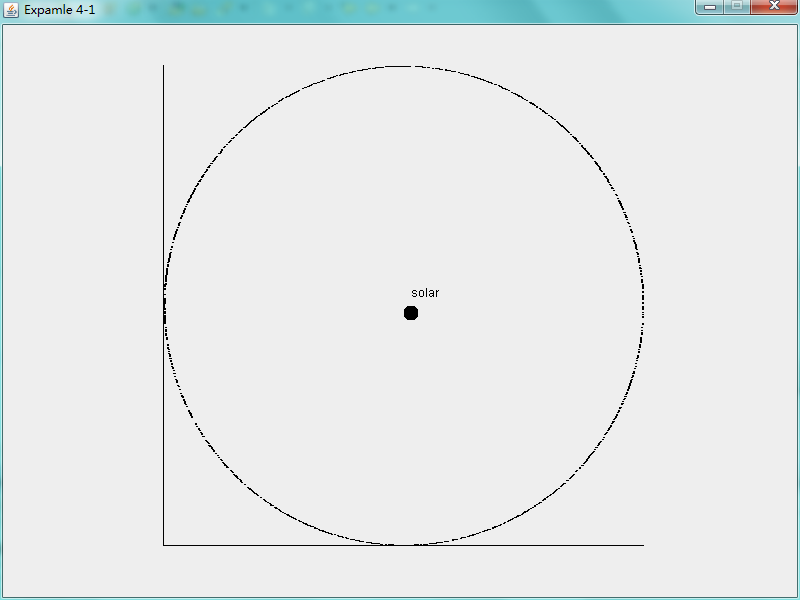
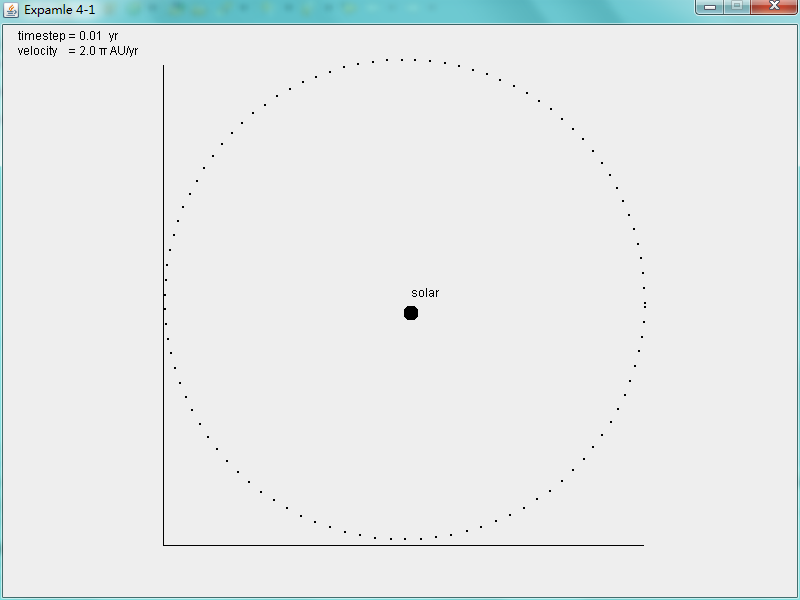
update

Changed region(s): [[0.0312, 0.06, 0.1562, 0.09]]

diff --git a/src/main/Example1.java b/src/main/Example1.java
@@ -15,17 +15,28 @@ public class Example1 extends Example{
 	 */
 	private MyPanel mp;
 	
+	/**
+	 * 时间间隔
+	 */
+	private double dt;
+	private double velocity;
+	
 	private static final int SIZE = 240;
 	
 	public static void main(String[] args) {
-		Example1 e1 = new Example1();
+		double timestep = 0.002;
+		double velocity = 2 * Math.PI;
+		
+		Example1 e1 = new Example1(timestep, velocity);
 		e1.calc();
 		
 	}
-	
-	public Example1() {
+
+	public Example1(double timestep, double velocity) {
 		super();
-		this.mp = new MyPanel();
+		this.mp 	  = new MyPanel();
+		this.dt 	  = timestep;
+		this.velocity = velocity;
 		this.getContentPane().add(this.mp);
 		this.setTitle("Expamle 4-1");
 	}
@@ -37,7 +48,7 @@ public class Example1 extends Example{
 		new Thread(pt).start();
 	}
 	
-	protected class PaintThread implements Runnable {
+	private class PaintThread implements Runnable {
 
 		@Override
 		public void run() {
@@ -50,18 +61,19 @@ public class Example1 extends Example{
 			//假设初始时，地球在 x 轴正半轴上，距离以 AU 为单位
 			earth.setPosX(1);
 			earth.setPosY(0);
-			//初始速度为 (0, 2 * PI)
+			//初始速度
 			earth.setSpeedX(0);
-			earth.setSpeedY(2 * Math.PI);
+			earth.setSpeedY(velocity);
 			
 			double r;
 			double x;
 			double y;
 			double vx;
 			double vy;
-			double dt = 0.001;
 			
-			for(int i = 0; i < 100001; i++) {
+			int i = 0;
+			// 至少循环一圈
+			while(i < 1 / dt || i < 1000) {
 				//计算距离
 				r = Calc.distance(sun.getPosX(), sun.getPosY(), earth.getPosX(), earth.getPosY());
 				//输出
@@ -76,7 +88,12 @@ public class Example1 extends Example{
 				//绘图
 				mp.setPos(earth.getPosX() * SIZE, earth.getPosY() * SIZE);
 				mp.repaint();
-				
+				try {
+					Thread.sleep(10);
+				} catch (InterruptedException e) {
+					// TODO Auto-generated catch block
+					e.printStackTrace();
+				}
 				//对应 example 4.1 上的伪算法，4.7 的公式
 				//速度变化
 				vx = getViNext(earth.getSpeedX(), earth.getPosX(), r, dt);
@@ -87,7 +104,8 @@ public class Example1 extends Example{
 				x = getNextPos(earth.getPosX(), earth.getSpeedX(), dt);
 				earth.setPosX(x);
 				y = getNextPos(earth.getPosY(), earth.getSpeedY(), dt);
-				earth.setPosY(y);		
+				earth.setPosY(y);
+				i++;
 			}
 
 		}
@@ -104,10 +122,13 @@ public class Example1 extends Example{
 		}
 		
 		public void paint(Graphics g) {
-//			super.paint(g);
+			g.drawString("timestep = " + dt + "  yr", 15, 15);
+			g.drawString("velocity    = " + velocity/ Math.PI + " π AU/yr", 15, 30);
+			
 			g.translate(400, 280);
 			g.setColor(Color.BLACK);
-			g.fillOval((int) x, (int) y, 2, 2);
+			g.fillOval((int) x, (int) y, 3, 3);
+			
 			// 画出中心
 			g.fillOval(0, 0, 15, 15);
 			g.drawString("solar", 8, -8);
@@ -119,7 +140,7 @@ public class Example1 extends Example{
 	}
 	
 	/**
-	 * 
+	 * 使用 Euler-Cromer 法则计算下一次的速度分量
 	 * @param vi 第 i 次的速度分量
 	 * @param pi 第 i 次坐标分量
 	 * @param ri 第 i 次距离
@@ -132,7 +153,7 @@ public class Example1 extends Example{
 	}
 	
 	/**
-	 * 
+	 * 使用 Euler-Cromer 法则计算下一次的位置
 	 * @param pi  第 i 次坐标分量 
 	 * @param vin 第 i+1 次的速度分量
 	 * @param dt  时间间隔

diff --git a/src/main/Example2.java b/src/main/Example2.java
@@ -2,6 +2,8 @@ package main;
 
 import core.Calc;
 import core.Const;
+import objs.Earth;
+import objs.Sun;
 
 public class Example2 {
 
@@ -11,6 +13,22 @@ public class Example2 {
 	}
 	
 	public void calc() {
+		new Thread(new PaintThread()).start();
+	}
+	
+	private class PaintThread implements Runnable {
+
+		@Override
+		public void run() {
+			
+			
+			for(int i = 0; i < 100001; i++) {
+
+				
+					
+			}
+
+		}
 		
 	}
 	

diff --git a/src/core/Calc.java b/src/core/Calc.java
@@ -49,6 +49,19 @@ public class Calc {
 	}
 	
 	/**
+	 * 修正万有引力中距离的幂
+	 * @param Ms
+	 * @param Me
+	 * @param r
+	 * @param beta
+	 * @return
+	 */
+	public static double modGravity(double Ms, double Me, double r, double beta) {
+		double FG = Const.G * Ms * Me / Math.pow(r, beta);
+		return FG;
+	}
+	
+	/**
 	 * 计算矢量大小
 	 * @param vx  x 分量
 	 * @param vy  y 分量
